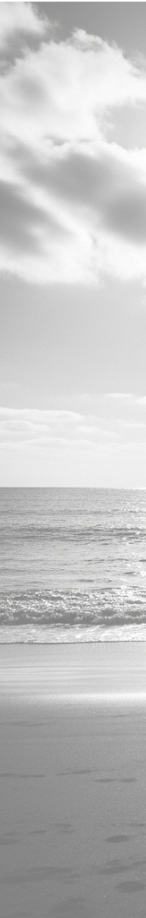
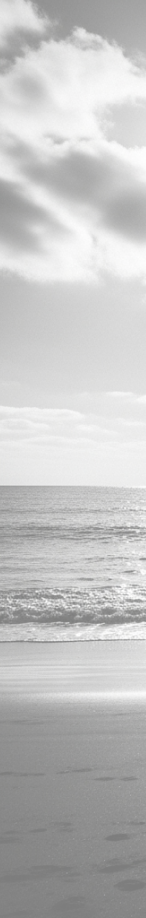
Refatoração da lógica de estações, centralizando dados em um objeto e melhorando a navegação

diff --git a/app/page.tsx b/app/page.tsx
@@ -3,112 +3,127 @@
 import Image from 'next/image';
 import { useState, useEffect } from 'react';
 
+const seasons = {
+  winter: {
+    key: 'winter',
+    title: 'Inverno',
+    subtitle: 'A estação do frio',
+    description:
+      'O inverno é a estação mais fria do ano, caracterizada por temperaturas baixas, dias mais curtos e noites mais longas. É um período de introspecção e aconchego, onde a natureza se prepara para um novo ciclo.',
+    images: ['/images/winter 1.png', '/images/winter 2.png'],
+    icon: '/icons/winter.svg',
+    color: 'winter',
+  },
+  summer: {
+    key: 'summer',
+    title: 'Verão',
+    subtitle: 'A estação do calor',
+    description:
+      'O verão é a estação mais quente do ano, com dias longos e ensolarados. É um período de energia, vitalidade e atividades ao ar livre, onde a natureza está em seu auge de exuberância.',
+    images: ['/images/summer 1.png', '/images/summer 2.png'],
+    icon: '/icons/summer.svg',
+    color: 'summer',
+  },
+  autumn: {
+    key: 'autumn',
+    title: 'Outono',
+    subtitle: 'A estação das folhas',
+    description:
+      'O outono é a estação da transição, onde as folhas mudam de cor e caem, preparando a natureza para o inverno. É um período de transformação e reflexão, com temperaturas amenas e paisagens douradas.',
+    images: ['/images/autumn 1.png', '/images/autumn 2.png'],
+    icon: '/icons/autumn.svg',
+    color: 'autumn',
+  },
+  spring: {
+    key: 'spring',
+    title: 'Primavera',
+    subtitle: 'A estação das flores',
+    description:
+      'A primavera é a estação do renascimento, onde a natureza desperta do inverno. É um período de renovação, com flores desabrochando, temperaturas amenas e dias mais longos, anunciando a chegada do verão.',
+    images: ['/images/spring 1.png', '/images/spring 2.png'],
+    icon: '/icons/spring.svg',
+    color: 'spring',
+  },
+} as const;
+
+const seasonKeys = Object.keys(seasons) as (keyof typeof seasons)[];
+
 export default function Component() {
-  const [season, setSeason] = useState<'winter' | 'summer' | 'autumn' | 'spring'>('winter');
+  const [seasonKey, setSeasonKey] = useState<keyof typeof seasons>('winter');
   const [isScrolling, setIsScrolling] = useState(false);
 
-  const seasons = ['winter', 'summer', 'autumn', 'spring'] as const;
-  
-  const seasonTexts = {
-    winter: {
-      title: 'Inverno',
-      subtitle: 'A estação do frio',
-      description: 'O inverno é a estação mais fria do ano, caracterizada por temperaturas baixas, dias mais curtos e noites mais longas. É um período de introspecção e aconchego, onde a natureza se prepara para um novo ciclo.'
-    },
-    summer: {
-      title: 'Verão',
-      subtitle: 'A estação do calor',
-      description: 'O verão é a estação mais quente do ano, com dias longos e ensolarados. É um período de energia, vitalidade e atividades ao ar livre, onde a natureza está em seu auge de exuberância.'
-    },
-    autumn: {
-      title: 'Outono',
-      subtitle: 'A estação das folhas',
-      description: 'O outono é a estação da transição, onde as folhas mudam de cor e caem, preparando a natureza para o inverno. É um período de transformação e reflexão, com temperaturas amenas e paisagens douradas.'
-    },
-    spring: {
-      title: 'Primavera',
-      subtitle: 'A estação das flores',
-      description: 'A primavera é a estação do renascimento, onde a natureza desperta do inverno. É um período de renovação, com flores desabrochando, temperaturas amenas e dias mais longos, anunciando a chegada do verão.'
-    }
-  };
+  const season = seasons[seasonKey];
 
-  const seasonImages1 = {
-    winter: '/images/winter 1.png',
-    summer: '/images/summer 1.png',
-    autumn: '/images/autumn 1.png',
-    spring: '/images/spring 1.png',
-  };
-  const seasonImages2 = {
-    winter: '/images/winter 2.png',
-    summer: '/images/summer 2.png',
-    autumn: '/images/autumn 2.png',
-    spring: '/images/spring 2.png',
-  };
-  
   const handlePreviousSeason = () => {
-    const currentIndex = seasons.indexOf(season);
-    const previousIndex = (currentIndex - 1 + seasons.length) % seasons.length;
-    setSeason(seasons[previousIndex]);
+    const currentIndex = seasonKeys.indexOf(seasonKey);
+    const previousIndex = (currentIndex - 1 + seasonKeys.length) % seasonKeys.length;
+    setSeasonKey(seasonKeys[previousIndex]);
   };
 
   const handleNextSeason = () => {
-    const currentIndex = seasons.indexOf(season);
-    const nextIndex = (currentIndex + 1) % seasons.length;
-    setSeason(seasons[nextIndex]);
+    const currentIndex = seasonKeys.indexOf(seasonKey);
+    const nextIndex = (currentIndex + 1) % seasonKeys.length;
+    setSeasonKey(seasonKeys[nextIndex]);
   };
 
   useEffect(() => {
     const handleWheel = (event: WheelEvent) => {
       if (isScrolling) return;
-
       setIsScrolling(true);
-      
-      if (event.deltaY > 0) {
-        handleNextSeason();
-      } else {
-        handlePreviousSeason();
-      }
 
-      setTimeout(() => {
-        setIsScrolling(false);
-      }, 500);
+      event.deltaY > 0 ? handleNextSeason() : handlePreviousSeason();
+
+      setTimeout(() => setIsScrolling(false), 500);
     };
 
     window.addEventListener('wheel', handleWheel);
     return () => window.removeEventListener('wheel', handleWheel);
-  }, [season, isScrolling]);
-
-  const seasonIcon = {
-    winter: '/icons/winter.svg',
-    summer: '/icons/summer.svg',
-    autumn: '/icons/autumn.svg',
-    spring: '/icons/spring.svg',
-  };
+  }, [seasonKey, isScrolling]);
 
   return (
-    <div className={`md:flex-row md:py-12 md:px-0 px-6 flex flex-col items-center justify-between h-screen bg-${season}-background`}>
-      <section 
-        onClick={handlePreviousSeason} 
-        className={`md:w-40 md:h-full h-28 w-full md:border-t md:border-l-0 border-${season}-highlight border-b border-r border-l cursor-pointer flex items-center justify-center hover:opacity-80 transition-opacity relative overflow-hidden`}
+    <div
+      className={`md:flex-row md:py-12 md:px-0 px-6 flex flex-col items-center justify-between h-screen bg-${season.color}-background`}
+    >
+      <section
+        onClick={handlePreviousSeason}
+        className={`md:w-40 md:h-full h-28 w-full md:border-t md:border-l-0 border-${season.color}-highlight border-b border-r border-l cursor-pointer flex items-center justify-center hover:opacity-80 transition-opacity relative overflow-hidden`}
       >
-        <Image src={seasonImages1[season]} alt={season} fill style={{objectFit: 'cover'}} />
+        <Image
+          key={`${season.key}-1`}
+          src={season.images[0]}
+          alt={season.title}
+          fill
+          style={{ objectFit: 'cover', mixBlendMode: 'luminosity' }}
+        />
       </section>
-      <main className={`md:m-12 m-6 size-full border border-${season}-highlight flex flex-col items-center justify-center`}>
-        <div className="flex items-center gap-3">
-          <span className={`text-sm border-${season}-highlight`}>09</span>
-          <Image src={seasonIcon[season]} alt={season} width={70} height={70} />
-          <span className={`text-sm border-${season}-highlight`}>06</span>
-        </div>
-        <h1 className="text-2xl font-bold">{seasonTexts[season].title}</h1>
-        <h2 className="text-xl mb-4">{seasonTexts[season].subtitle}</h2>
-        <p className={`md:max-w-2/3 px-8 text-md text-justify border-${season}-highlight`}>{seasonTexts[season].description}</p>
-      </main>
-      <section 
-        onClick={handleNextSeason} 
-        className={`md:w-40 md:h-full h-28 w-full md:border-b md:border-r-0 border-${season}-highlight border-t border-l border-r cursor-pointer flex items-center justify-center hover:opacity-80 transition-opacity relative overflow-hidden`}
+      <main
+        className={`md:m-12 m-6 size-full border border-${season.color}-highlight flex flex-col items-center justify-center`}
       >
-        <Image src={seasonImages2[season]} alt={season} fill style={{objectFit: 'cover'}} />
+        <div className="flex items-center gap-3">
+          <span className={`text-sm border-${season.color}-highlight`}>09</span>
+          <Image src={season.icon} alt={season.title} width={70} height={70} />
+          <span className={`text-sm border-${season.color}-highlight`}>06</span>
+        </div>
+        <h1 className="text-2xl font-bold">{season.title}</h1>
+        <h2 className="text-xl mb-4">{season.subtitle}</h2>
+        <p
+          className={`md:max-w-2/3 px-8 text-md text-justify border-${season.color}-highlight`}
+        >
+          {season.description}
+        </p>
+      </main>
+      <section
+        onClick={handleNextSeason}
+        className={`md:w-40 md:h-full h-28 w-full md:border-b md:border-r-0 border-${season.color}-highlight border-t border-l border-r cursor-pointer flex items-center justify-center hover:opacity-80 transition-opacity relative overflow-hidden`}
+      >
+        <Image
+          key={`${season.key}-2`}
+          src={season.images[1]}
+          alt={season.title}
+          fill
+          style={{ objectFit: 'cover', mixBlendMode: 'luminosity' }}
+        />
       </section>
     </div>
-  )
+  );
 }
